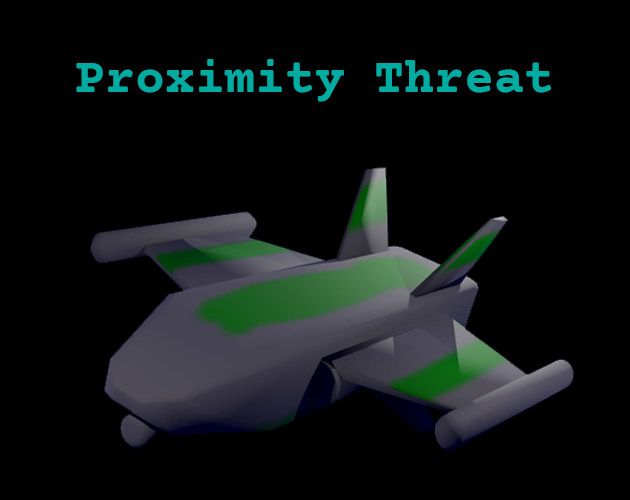
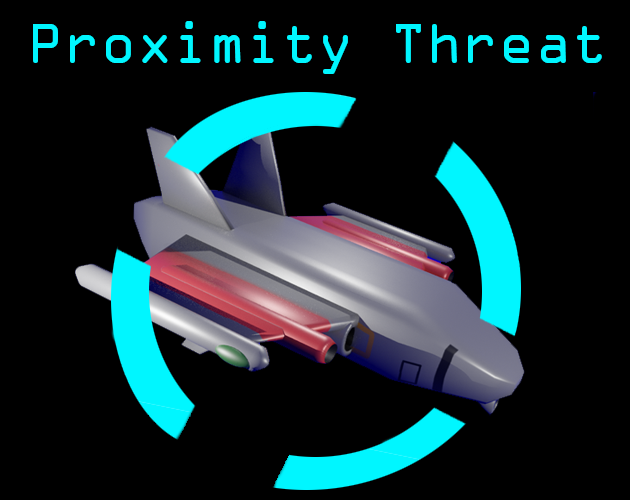
new thumbnail

diff --git a/proximityThreat.html b/proximityThreat.html
@@ -66,7 +66,7 @@
     <!-- Proximity Threat Screenshot-->
     <div class="col-sm-4">
       <div class=".card">
-        <img class="card-img-top" src="assets/images/ProximityThreatThumbnail169.png"
+        <img class="card-img-top" src="assets/images/ProximityThreatThumbnail.png"
           alt="Proximity Threat Thumbnail">
         <div class="card-body">
           <h5 class="card-title">Early thumbnail for Proximity Threat showing the player's 3D drone.</h5>
